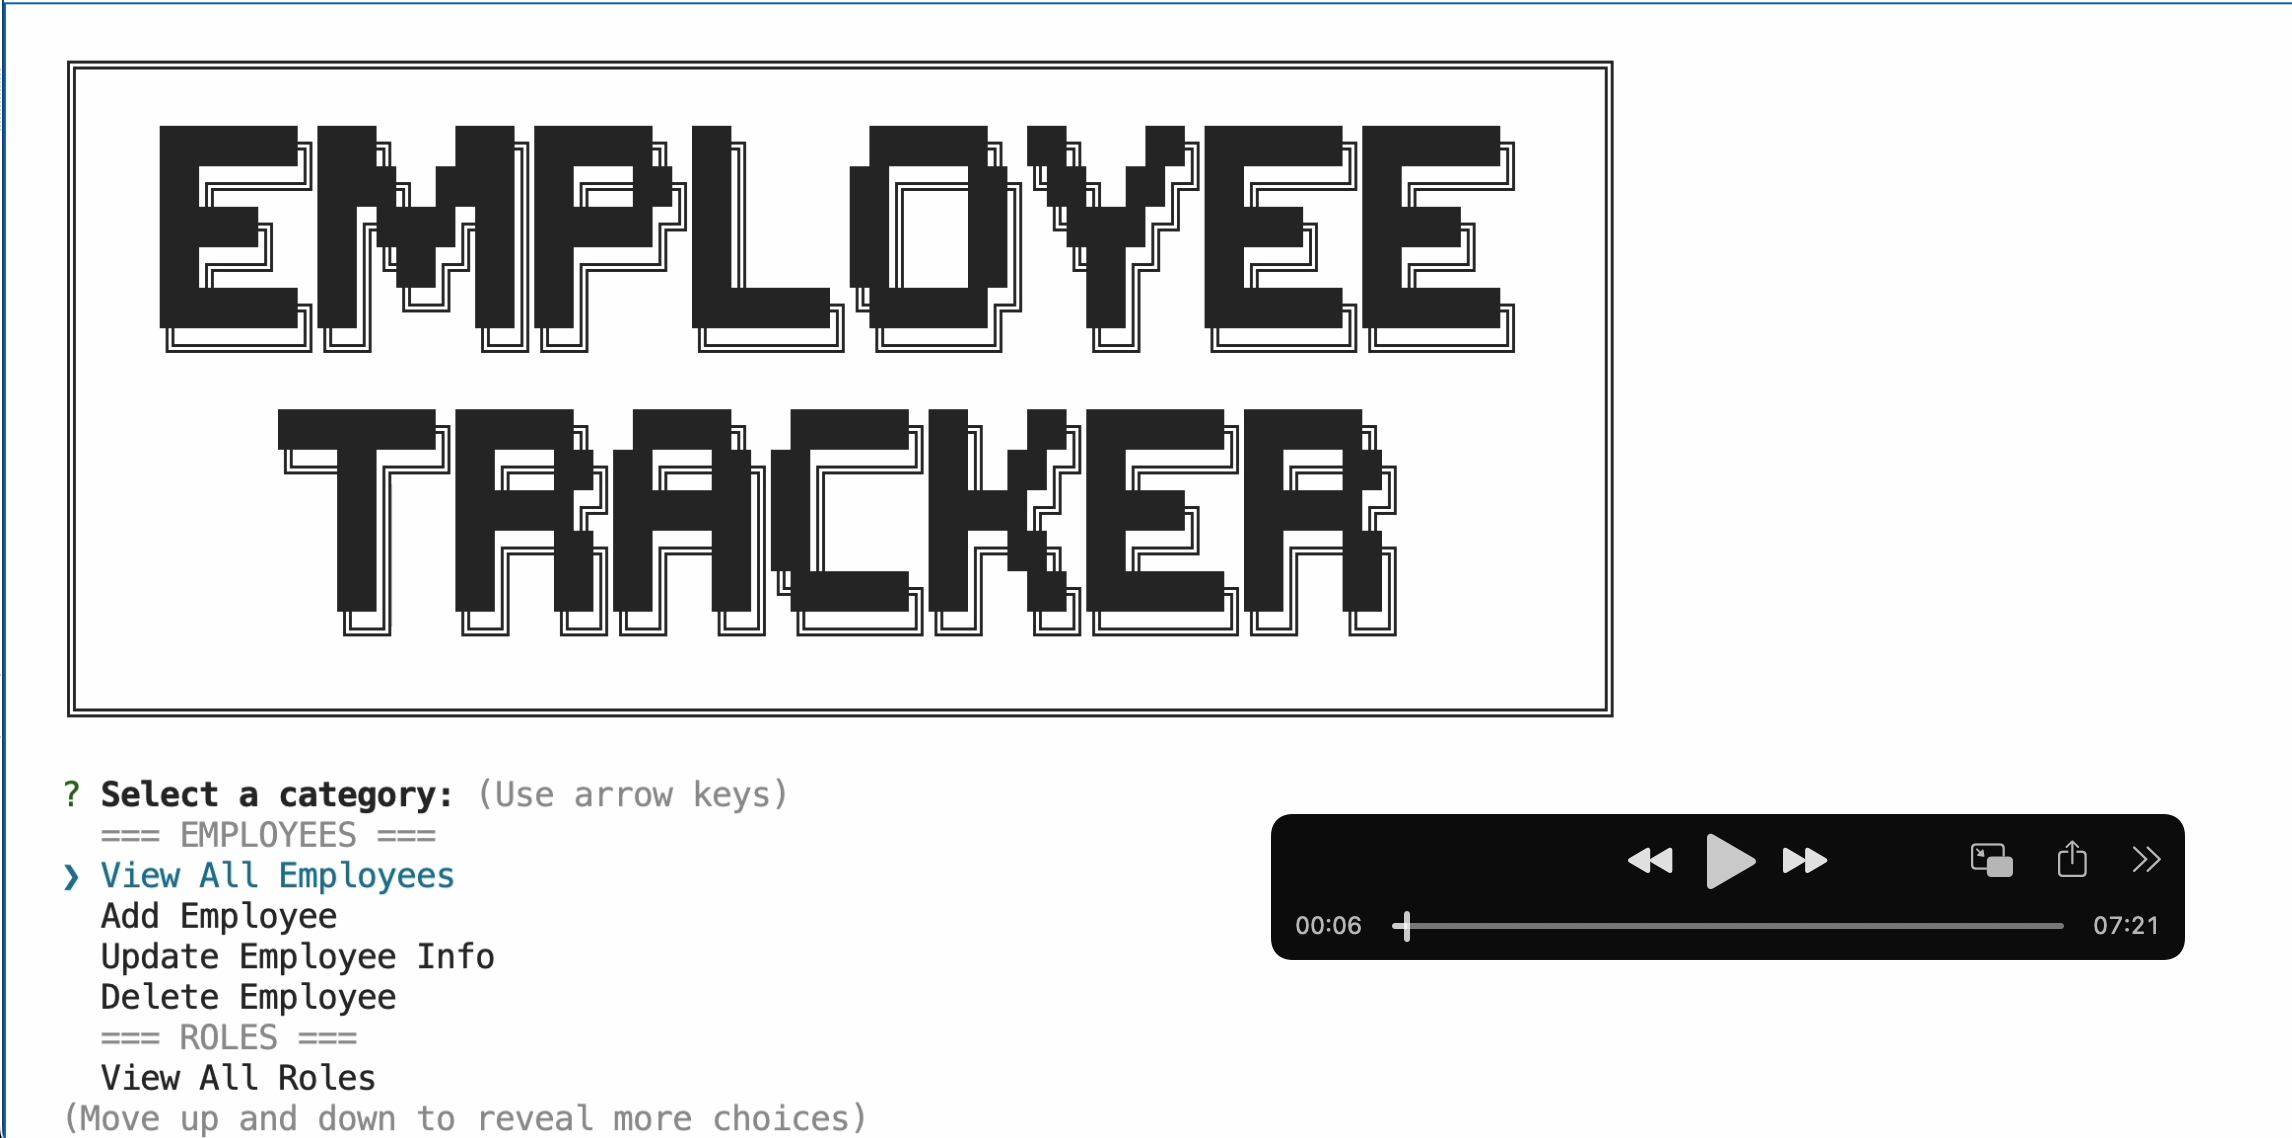
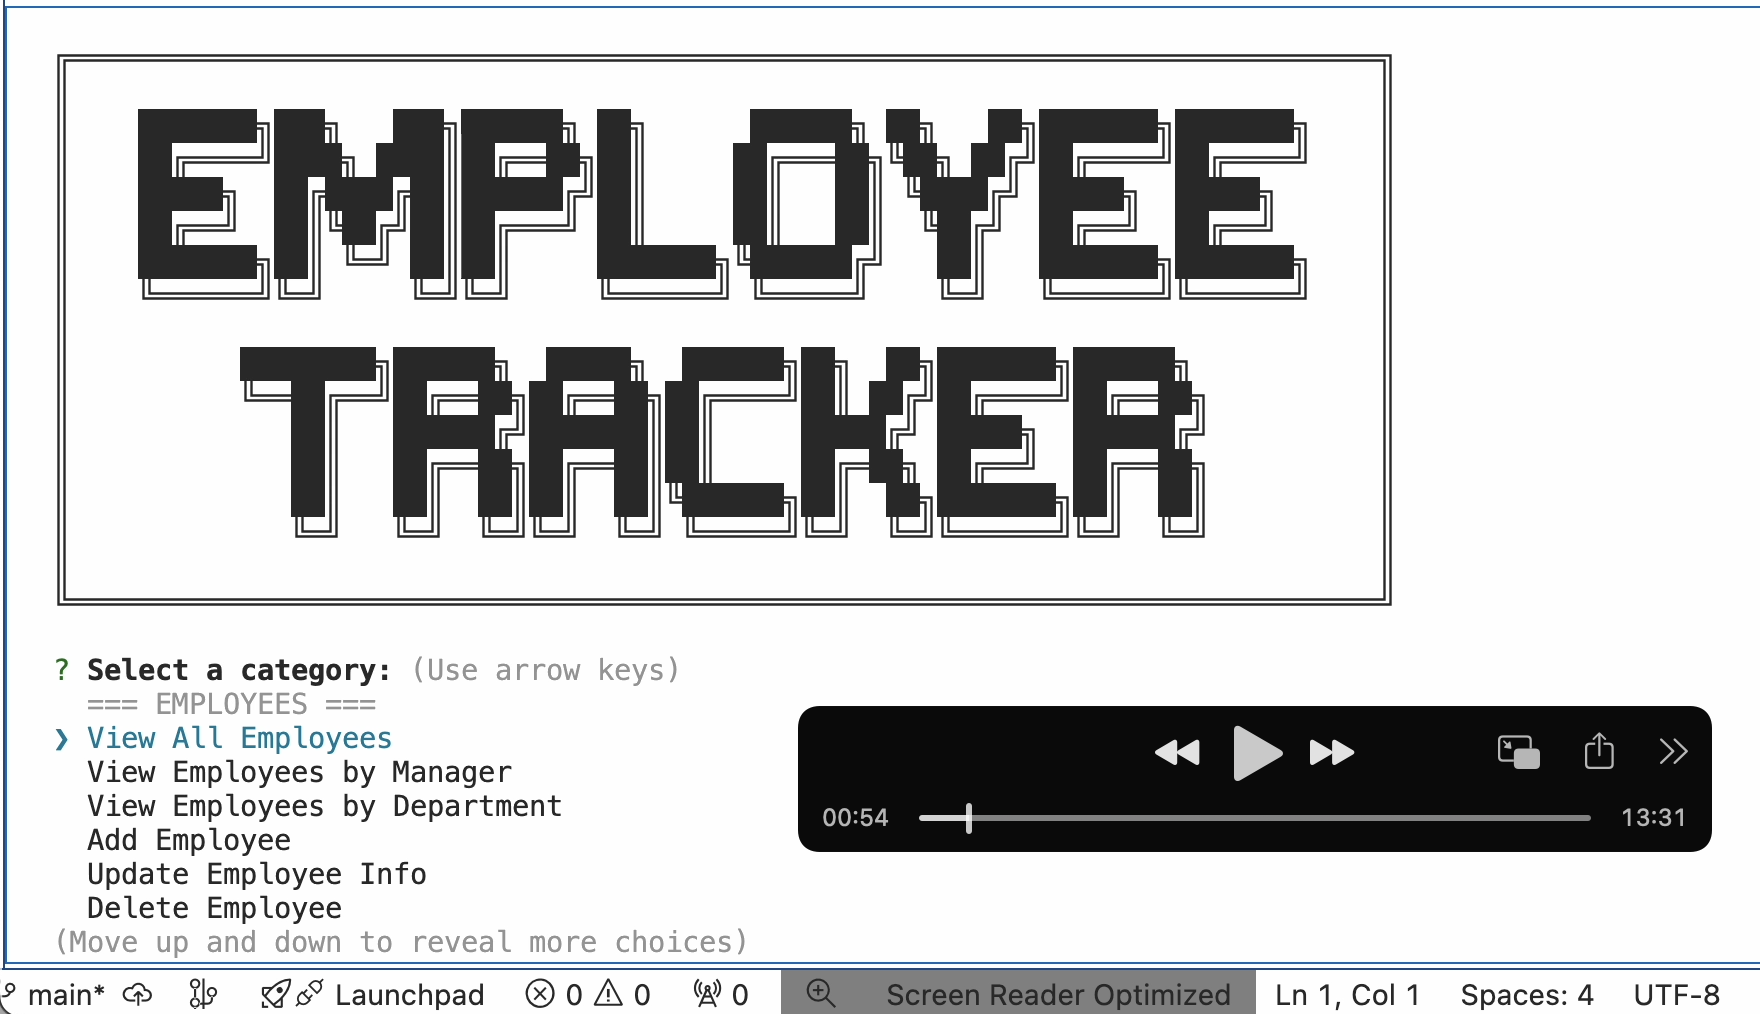
Modified README and added thumbnail png

Changed region(s): [[0.0, 0.0, 1.0, 1.0], [0.4375, 0.6726, 1.0, 0.856], [0.7812, 0.0611, 0.8125, 0.5809]]

diff --git a/README.md b/README.md
@@ -1,132 +1,129 @@
-# 12-SQL: Employee Tracker
+# Employee Tracker
 
----
+![License](https://img.shields.io/badge/License-MIT-blue.svg)
 
 ## Table of Contents
-1. [Overview](#overview)
-2. [Features](#features)
-3. [Installation](#installation)
-4. [Usage](#usage)
-5. [Schema](#schema)
-6. [Walkthrough Video](#walkthrough-video)
-7. [Technologies Used](#technologies-used)
-8. [Contributing](#contributing)
-9. [License](#license)
+- [Description](#description)
+- [Features](#features)
+    - [Departments](#departments)
+    - [Roles](#roles)
+    - [Employees](#employees)
+- [Getting Started](#getting-started)
+    - [Prerequisites](#prerequisites)
+    - [Installation](#installation)
+- [Usage](#usage)
+- [Technologies Used](#technologies-used)
+- [Walkthrough Video](#walkthrough-video)
+- [Contributing](#contributing)
+- [Skills and Knowledge Developed](#skills-and-knowledge-developed)
+- [Credits](#credits)
+- [License](#license)
 
----
+## Description
+Employee Tracker is a command-line content-management system (CMS) designed to efficiently manage employee databases. Built with Node.js, Inquirer, and PostgreSQL, this application offers a user-friendly interface for executing various CRUD operations across departments, roles, and employees.
 
-## Overview
-Employee Tracker is a command-line application designed to manage a company's employee database. Built using Node.js, Inquirer, and PostgreSQL, this application provides a user-friendly interface for business owners to view and manage departments, roles, and employees within their organization.
+Features include:
+- Viewing, adding, updating, and deleting departments, roles, and employees.
+- Sorting and organizing data efficiently.
+- Ensuring data security with environment variables.
 
 [Back to Table of Contents](#table-of-contents)
-
----
 
 ## Features
-- **View Departments**: Display a list of all departments with their respective IDs.
-- **View Roles**: Display a list of all roles with their IDs, titles, associated department names, and salaries.
-- **View Employees**: Display a formatted table of employee data, including IDs, first and last names, job titles, departments, salaries, and managers.
-- **Add Department**: Prompt the user to enter a department name and add it to the database.
-- **Add Role**: Prompt the user to enter the title, salary, and department for a role, then add it to the database.
-- **Add Employee**: Prompt the user to enter the first name, last name, role, and manager for a new employee, then add the employee to the database.
-- **Update Employee Role**: Prompt the user to select an employee and update their role in the database.
+
+### Departments
+- **View All Departments**: Displays a formatted table of all departments, including IDs and names.
+- **Add Department**: Prompts user input for a new department name to add to the database.
+- **Update Department Info**: Allows updating the name of an existing department.
+- **Delete Department**: Enables removal of a department from the database.
+- **Sort Data**: Offers sorting options by ID and department name.
 
 [Back to Table of Contents](#table-of-contents)
 
----
+### Roles
+- **View All Roles**: Shows a formatted table of all roles, including IDs, titles, salaries, and associated departments.
+- **Add Role**: Prompts for new role details like title, salary, and department to be added.
+- **Update Role Info**: Allows updating information for an existing role.
+- **Delete Role**: Enables removal of a role from the database.
+- **Sort Data**: Offers sorting options by various fields such as ID, title, and salary.
 
-## Installation
+[Back to Table of Contents](#table-of-contents)
+
+### Employees
+- **View All Employees**: Displays a table of employee details, including IDs, names, titles, departments, salaries, and managers.
+- **View Employees by Manager/Department**: Filters employees by their manager or department.
+- **Add Employee**: Prompts for details of a new employee to add to the database.
+- **Update Employee Info**: Allows updates to existing employee details.
+- **Delete Employee**: Enables removal of an employee from the database.
+- **Sort Data**: Offers sorting options by fields like ID and name.
+
+[Back to Table of Contents](#table-of-contents)
+
+## Getting Started
+
+### Prerequisites
+- Node.js
+- PostgreSQL
+- Inquirer 8.2.4
+
+[Back to Table of Contents](#table-of-contents)
+
+### Installation
 1. **Clone the repository**:
    ```bash
-   git clone <repository-url>
-   cd employee-tracker
+   git clone https://github.com/ngojohn2002/12-SQL-Employee-Tracker
+   cd 12-SQL-Employee-Tracker
    ```
 
-2. **Set up environment variables**:
-   - Create a `.env` file in the root directory with the following content:
-     ```env
-     DB_USER=yourusername
-     DB_PASSWORD=yourpassword
-     DB_HOST=localhost
-     DB_PORT=5432
-     DB_DATABASE=employee_tracker
-     ```
-   Replace `yourusername` and `yourpassword` with your PostgreSQL credentials.
-
-3. **Initialize the database**:
-   ```bash
-   psql -U yourusername -f sql/initialize_employee_tracker_db.sql
-   ```
-
-4. **Seed the database**:
-   ```bash
-   psql -U yourusername -f sql/seeds.sql
-   ```
-
-5. **Install Node.js dependencies**:
+2. **Install dependencies**:
    ```bash
    npm install
    ```
 
-6. **Run the application**:
+3. **Set up environment variables**:
+   Create a `.env` file in the root with the following content:
+   ```
+   DB_DATABASE=employee_tracker
+   DB_USER=your_username
+   DB_PASSWORD=your_password
+   DB_HOST=localhost
+   DB_PORT=5432
+   ```
+
+4. **Initialize the database**:
    ```bash
-   node index.js
+   psql -U your_username -d postgres -f sql/initialize_db.sql
+   ```
+
+5. **Seed the database**:
+   ```bash
+   psql -U your_username -d employee_tracker -f sql/seeds.sql
    ```
 
 [Back to Table of Contents](#table-of-contents)
 
----
-
-## Usage
-1. **Start the application** by running `node index.js` in the terminal.
-2. **Select an option** from the menu using the arrow keys and press Enter.
-3. **Follow the prompts** to view or manage the database.
-4. **Exit the application** by selecting the "Exit" option from the menu.
-
-[Back to Table of Contents](#table-of-contents)
-
----
-
-## Schema
-The database schema consists of three tables:
-
-- **Department Table**:
-  - `id`: Primary key, auto-incremented.
-  - `name`: Name of the department (unique and not null).
-
-- **Role Table**:
-  - `id`: Primary key, auto-incremented.
-  - `title`: Title of the role (unique and not null).
-  - `salary`: Salary for the role (not null).
-  - `department_id`: Foreign key referencing the `department` table.
-
-- **Employee Table**:
-  - `id`: Primary key, auto-incremented.
-  - `first_name`: Employee's first name (not null).
-  - `last_name`: Employee's last name (not null).
-  - `role_id`: Foreign key referencing the `role` table.
-  - `manager_id`: Foreign key referencing the `employee` table (self-referential).
+### Usage
+To start the application:
+   ```bash
+   npm start
+   ```
+Follow the prompts to manage the database.
 
 [Back to Table of Contents](#table-of-contents)
-
----
-
-## Walkthrough Video
-[Link to walkthrough video](#) demonstrating the functionality of the Employee Tracker application.
-
-[Back to Table of Contents](#table-of-contents)
-
----
 
 ## Technologies Used
 - Node.js
 - Inquirer.js
 - PostgreSQL
-- pg (node-postgres)
+- dotenv
 
 [Back to Table of Contents](#table-of-contents)
 
----
+## Walkthrough Video
+Click the thumbnail below to view the demonstration video:
+[![Thumbnail to Employee Tracker demonstration video](./Assets/12-SQL-Employee-Tracker.png)](https://drive.google.com/file/d/14FgQPnM8RTP9erH7Py7_1WxlblKgtG02/view?usp=sharing)
+
+[Back to Table of Contents](#table-of-contents)
 
 ## Contributing
 1. **Fork the repository**.
@@ -146,9 +143,30 @@ The database schema consists of three tables:
 
 [Back to Table of Contents](#table-of-contents)
 
----
-
-## License
-This project is licensed under the MIT License.
+## Skills and Knowledge Developed
+- **Backend Development**: Implemented a relational database schema using PostgreSQL.
+- **Node.js**: Developed a CLI using Node.js.
+- **Asynchronous Programming**: Applied async/await for database operations.
+- **User Interaction and CLI Tools**: Utilized Inquirer.js for user input.
+- **Environment Configuration**: Managed sensitive settings with dotenv.
+- **Project Management and Version Control**: Used Git for version control.
+- **Problem-Solving and Debugging**: Focused on error handling and data validation.
+- **Documentation**: Created comprehensive documentation for the project.
 
 [Back to Table of Contents](#table-of-contents)
+
+## Credits
+
+This project was made possible with the help of [ChatGPT](https://chatgpt.com/).
+
+[Back to Table of Contents](#table-of-contents)
+
+## License
+
+This project is licensed under the [MIT License](LICENSE).
+
+[Back to Table of Contents](#table-of-contents)
+
+---
+
+Copyright &copy; 2024 - All Rights Reserved.
